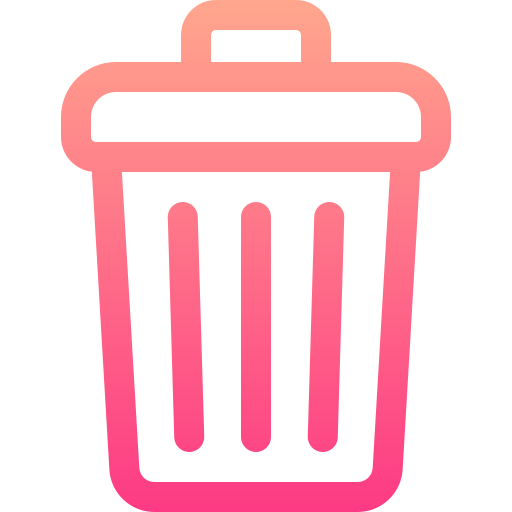
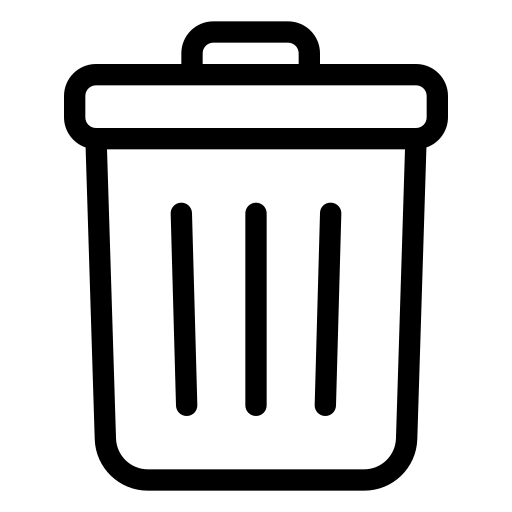
ajustes de layout

diff --git a/PlatoFront/src/app/app.routes.ts b/PlatoFront/src/app/app.routes.ts
@@ -19,6 +19,8 @@ import { authGuard } from './guards/auth.guard';
 import { roleGuard } from './guards/role.guard';
 import { RestaurantesAdminPage } from './pages/restaurantes-admin-page/restaurantes-admin-page';
 import { CardapioPublicoPage } from './pages/cardapio-publico-page/cardapio-publico-page';
+import {EstoquePage} from './pages/estoque-page/estoque-page';
+import {MetricasPage} from './pages/metricas-page/metricas-page';
 
 const gerente = { roles: ['GERENTE'] };
 const operacao = { roles: ['GERENTE', 'ATENDENTE', 'CAIXA'] };
@@ -43,6 +45,8 @@ export const routes: Routes = [
       { path: 'notas-do-dia', component: NotasDoDiaPage, canActivate: [roleGuard], data: { roles: ['GERENTE', 'CAIXA'] } },
       { path: 'configuracoes/funcionarios', component: FuncionariosPage, canActivate: [roleGuard], data: gerente },
       { path: 'configuracoes/fornecedores', component: FornecedoresPage, canActivate: [roleGuard], data: gerente },
+      { path: 'configuracoes/estoque', component: EstoquePage, canActivate: [roleGuard], data: gerente },
+      { path: 'configuracoes/metricas', component: MetricasPage, canActivate: [roleGuard], data: gerente },
       { path: 'configuracoes/mesas', component: MesasPage, canActivate: [roleGuard], data: gerente },
       { path: 'configuracoes/cozinha', component: CozinhaPage, canActivate: [roleGuard], data: { roles: ['GERENTE', 'ATENDENTE'] } },
       { path: 'cozinha', component: CozinhaPage, canActivate: [roleGuard], data: { roles: ['GERENTE', 'ATENDENTE'] } },

diff --git a/PlatoFront/src/app/pages/fazer-pedido-page/fazer-pedido-page.html b/PlatoFront/src/app/pages/fazer-pedido-page/fazer-pedido-page.html
@@ -14,7 +14,11 @@
         } @else if (produtosError) {
           <app-feedback-toast type="error" [message]="produtosError" (dismissed)="produtosError = ''" />
         } @else if (produtos.length === 0) {
-          <p class="state-message">Nenhum produto cadastrado.</p>
+
+          <div class="empty-content">
+            <img src="/lista_vazia.png" alt="ícone de lista vazia">
+            <p class="state-message">Nenhum produto cadastrado.</p>
+          </div>
         } @else {
           @for (produto of produtos; track produto.id) {
             <button class="product-card" type="button" (click)="openProductModal(produto)">

diff --git a/PlatoFront/src/app/pages/metricas-page/metricas-page.spec.ts b/PlatoFront/src/app/pages/metricas-page/metricas-page.spec.ts
@@ -1,0 +1,23 @@
+import { ComponentFixture, TestBed } from '@angular/core/testing';
+
+import { MetricasPage } from './metricas-page';
+
+describe('MetricasPage', () => {
+  let component: MetricasPage;
+  let fixture: ComponentFixture<MetricasPage>;
+
+  beforeEach(async () => {
+    await TestBed.configureTestingModule({
+      imports: [MetricasPage]
+    })
+    .compileComponents();
+
+    fixture = TestBed.createComponent(MetricasPage);
+    component = fixture.componentInstance;
+    fixture.detectChanges();
+  });
+
+  it('should create', () => {
+    expect(component).toBeTruthy();
+  });
+});

diff --git a/PlatoFront/src/app/pages/estoque-page/estoque-page.spec.ts b/PlatoFront/src/app/pages/estoque-page/estoque-page.spec.ts
@@ -1,0 +1,23 @@
+import { ComponentFixture, TestBed } from '@angular/core/testing';
+
+import { EstoquePage } from './estoque-page';
+
+describe('EstoquePage', () => {
+  let component: EstoquePage;
+  let fixture: ComponentFixture<EstoquePage>;
+
+  beforeEach(async () => {
+    await TestBed.configureTestingModule({
+      imports: [EstoquePage]
+    })
+    .compileComponents();
+
+    fixture = TestBed.createComponent(EstoquePage);
+    component = fixture.componentInstance;
+    fixture.detectChanges();
+  });
+
+  it('should create', () => {
+    expect(component).toBeTruthy();
+  });
+});

diff --git a/PlatoFront/src/app/pages/cardapio-edit-page/cardapio-edit-page.scss b/PlatoFront/src/app/pages/cardapio-edit-page/cardapio-edit-page.scss
@@ -61,16 +61,10 @@
 @keyframes spin { to { transform: rotate(360deg); } }
 
 @media (min-width: 700px) {
-  .empty-state {
-    img {
-      height: 60px;
-    }
+
 }
 
-@media (max-width: 560px) {
-  .page-header { flex-direction: column; }
-  .header-actions { width: 100%; justify-content: space-between; }
-}
+@media (max-width: 560px) { .page-header { flex-direction: column; } .header-actions { width: 100%; justify-content: space-between; } }
 
 @media (min-width: 1700px) {
   .products-grid {
@@ -95,4 +89,4 @@
       font-size: var(--ts-20);
     }
   }
-}}
+}

diff --git a/PlatoFront/src/app/pages/configuracoes-page/configuracoes-page.html b/PlatoFront/src/app/pages/configuracoes-page/configuracoes-page.html
@@ -11,6 +11,8 @@
       <app-item-home routerLink="/configuracoes/funcionarios">Funcionários</app-item-home>
       <app-item-home routerLink="/configuracoes/fornecedores">Fornecedores</app-item-home>
       <app-item-home routerLink="/configuracoes/mesas">Mesas</app-item-home>
+      <app-item-home routerLink="/configuracoes/estoque">Estoque</app-item-home>
+      <app-item-home routerLink="/configuracoes/metricas">Métricas</app-item-home>
       <app-item-home routerLink="">Outros</app-item-home>
     </div>
   </section>

diff --git a/PlatoFront/src/app/pages/fazer-pedido-page/fazer-pedido-page.scss b/PlatoFront/src/app/pages/fazer-pedido-page/fazer-pedido-page.scss
@@ -79,6 +79,19 @@
   font-weight: 700; text-align: center;
 }
 
+.empty-content {
+  display: flex;
+  flex-direction: column;
+  justify-content: center;
+  align-items: center;
+  padding-block: 24px;
+
+  img {
+    height: 60px;
+    margin-bottom: 16px;
+  }
+}
+
 @media (max-width: 699.98px) {
   .page-container {
     padding-bottom: 300px;
@@ -106,5 +119,9 @@
     max-height: 700px;
     overflow-y: auto;
     overflow-x: hidden;
+  }
+
+  .empty-content img {
+    height: 80px;
   }
 }

diff --git a/PlatoFront/src/app/pages/notas-do-dia-page/notas-do-dia-page.html b/PlatoFront/src/app/pages/notas-do-dia-page/notas-do-dia-page.html
@@ -10,7 +10,7 @@
     <div class="page-actions">
       <button type="button" class="export-button" (click)="openExportModal()">
         <span aria-hidden="true">↓</span>
-        Exportar Notas Fiscais
+        Download
       </button>
     </div>
 

diff --git a/PlatoFront/src/app/pages/metricas-page/metricas-page.ts b/PlatoFront/src/app/pages/metricas-page/metricas-page.ts
@@ -1,0 +1,11 @@
+import { Component } from '@angular/core';
+
+@Component({
+  selector: 'app-metricas-page',
+  imports: [],
+  templateUrl: './metricas-page.html',
+  styleUrl: './metricas-page.scss',
+})
+export class MetricasPage {
+
+}

diff --git a/PlatoFront/src/app/pages/estoque-page/estoque-page.ts b/PlatoFront/src/app/pages/estoque-page/estoque-page.ts
@@ -1,0 +1,11 @@
+import { Component } from '@angular/core';
+
+@Component({
+  selector: 'app-estoque-page',
+  imports: [],
+  templateUrl: './estoque-page.html',
+  styleUrl: './estoque-page.scss',
+})
+export class EstoquePage {
+
+}

diff --git a/PlatoFront/src/app/pages/metricas-page/metricas-page.html b/PlatoFront/src/app/pages/metricas-page/metricas-page.html
@@ -1,0 +1,1 @@
+<p>metricas-page works!</p>

diff --git a/PlatoFront/src/app/pages/estoque-page/estoque-page.html b/PlatoFront/src/app/pages/estoque-page/estoque-page.html
@@ -1,0 +1,1 @@
+<p>estoque-page works!</p>
